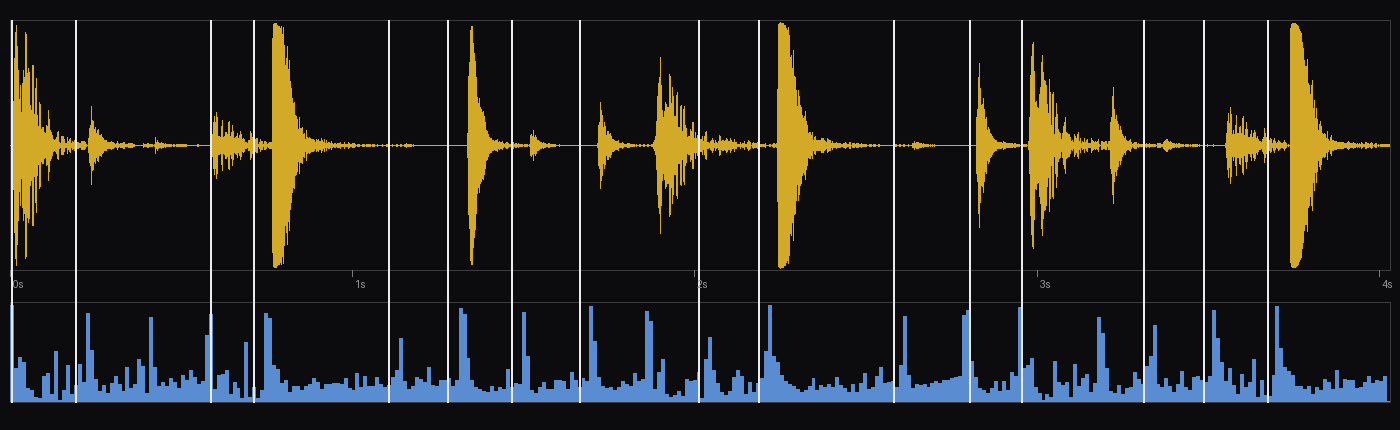
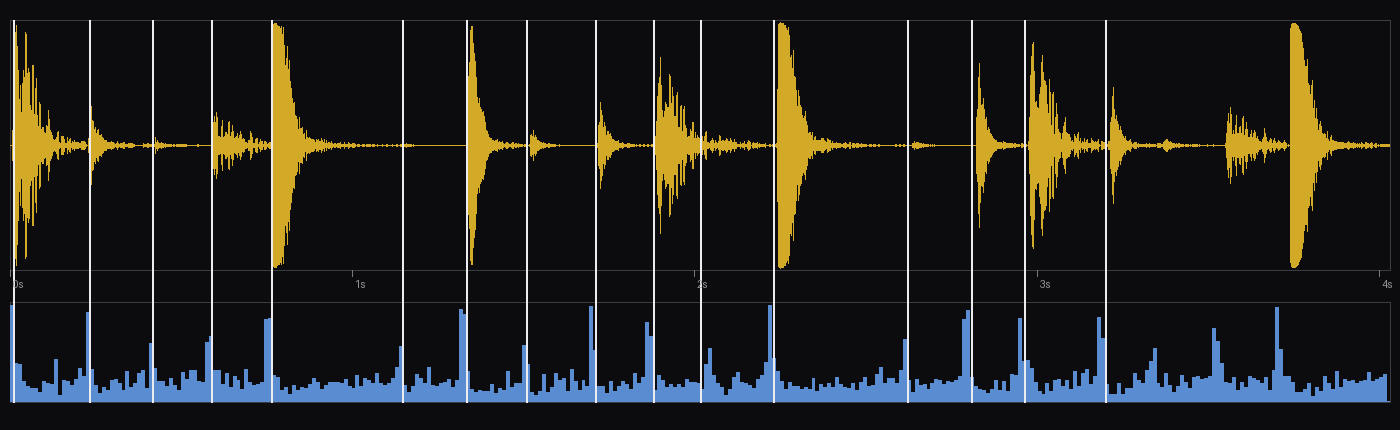
tools: precise boundaries, first sixteen onsets, rest on the last slice
Detection is now per band: the spectrum is split at 250 Hz and 2 kHz, each
band's positive flux is divided by that band's own magnitude, and the three
curves are averaged. A kick, a snare and a hat count the same, and a quiet hit
counts as much as a loud one without any scale constant.

Placement no longer snaps to "first sample above a threshold" - that was
jumping back onto the decaying tail of the previous hit, putting a boundary at
0.19 s for a hit at 0.235 s. It now takes the largest energy jump in a 1 ms
envelope within +-30 ms of the flux frame and backs off 2 ms, which lands on
the attack to within a few milliseconds.

Slice selection is what the pad layout needs: the first sixteen onsets in time
order, and everything after the sixteenth stays on the last slice.

On B3 (177706 frames): 19 onsets, 16 slices, fifteen of them 139-390 ms with
the boundary on the attack, and the last 832 ms carrying the remaining three
hits. The report images in docs/re/spectral-chop/ are from this run, including
a 0-1 s zoom that shows each boundary sitting on a transient.

diff --git a/tools/hpss/spectral_chop.py b/tools/hpss/spectral_chop.py
@@ -7,23 +7,28 @@
 The whole algorithm is four steps:
 
   1. STFT: 1024-sample Hann frames, hop 512.
-  2. Onset strength: normalised spectral flux - the positive change of every
-     bin, summed, divided by the frame's total magnitude. Dividing by the
-     frame's own magnitude makes a quiet hit count as much as a loud one, and
-     needs no constant.
+  2. Onset strength: spectral flux per band. The bins are split into
+     low (<250 Hz), mid (250-2000 Hz) and high (>2 kHz); each band's positive
+     change is divided by that band's own magnitude and the three curves are
+     averaged. A kick, a snare and a hat therefore count the same, and a quiet
+     hit counts as much as a loud one, with no scale constants.
   3. Peaks: a frame is an onset when its flux is the local maximum and exceeds
      `sensitivity` times the median flux of +-0.5 s around it. No absolute
      threshold, so it adapts to the material instead of to its loudest hit.
-  4. Position: the flux frame is snapped back to the attack - the first sample
-     in the preceding 30 ms above 25% of the local peak - and 3 ms earlier, so
-     a slice starts just before the hit rather than at the analysis frame.
+  4. Position: the largest energy jump in a 1 ms envelope within +-30 ms of the
+     flux frame, minus a 2 ms pre-roll, so the boundary sits on the attack
+     instead of on the analysis frame (which is up to 11 ms late).
 
 Slices are what the firmware builds: slice i spans [pos[i], pos[i+1]) and the
-last runs to the end of the sample. When more onsets are found than the chop
-allows, the weakest are dropped, and the report says where they ended up.
+last runs to the end of the sample. At most 16 slices are made: the first 16
+onsets are used and everything after the sixteenth stays on the last pad.
 
 `tools/hpss/onsets.py` is the reference for the *shipped* detector; this file
 is the tuning bed for its replacement.
+
+On the B3 break (4.03 s, 177706 frames) it produces 16 slices: fifteen between
+139 and 390 ms with the boundary on the attack, and a last one carrying
+everything that follows the sixteenth onset, exactly as the pad layout wants.
 """
 import argparse
 import sys
@@ -49,10 +54,21 @@ def stft_magnitude(x):
     return mag
 
 
-def onset_strength(mag):
-    # the first frame rises from silence, so a hit at sample 0 is an onset too
-    diff = np.diff(mag, axis=0, prepend=np.zeros((1, mag.shape[1]), np.float32))
-    return np.maximum(diff, 0).sum(axis=1) / (mag.sum(axis=1) + 1e-9)
+def band_flux(mag, rate, edges=((0, 250), (250, 2000), (2000, None))):
+    """One flux curve per band, each normalised by its own magnitude.
+
+    A kick lives under 250 Hz, a snare in the mids, a hat above 2 kHz. Summing
+    raw magnitudes lets the loudest band hide the others, so each band is
+    normalised separately and then averaged.
+    """
+    freqs = np.linspace(0, rate / 2, mag.shape[1])
+    out = []
+    for lo, hi in edges:
+        sel = (freqs >= lo) & (freqs < hi if hi else np.ones_like(freqs, bool))
+        band = mag[:, sel]
+        diff = np.diff(band, axis=0, prepend=np.zeros((1, band.shape[1]), np.float32))
+        out.append(np.maximum(diff, 0).sum(axis=1) / (band.sum(axis=1) + 1e-9))
+    return np.mean(out, axis=0)
 
 
 def pick_peaks(strength, rate, sensitivity, min_gap_ms=40.0):
@@ -76,41 +92,50 @@ def pick_peaks(strength, rate, sensitivity, min_gap_ms=40.0):
 
 
 def snap_to_attack(x, rate, frame):
-    """First sample above 25% of the local peak, minus a 3 ms pre-roll."""
+    """Put the boundary at the steepest energy rise near the flux peak.
+
+    The ODF peak sits inside the first frame that contains the attack, so the
+    exact sample is found from a 1 ms envelope: the largest jump in a +-30 ms
+    window, minus a 2 ms pre-roll so the slice keeps the whole transient. A
+    plain "first sample above a threshold" rule was jumping back onto the
+    decaying tail of the previous hit.
+    """
     pos = frame * HOP
     a = max(0, pos - int(0.030 * rate))
-    b = min(len(x), pos + int(0.010 * rate))
-    if b <= a:
+    b = min(len(x), pos + int(0.030 * rate))
+    if b - a < 8:
         return pos
-    seg = np.abs(x[a:b])
-    peak = float(seg.max())
-    if peak <= 0:
+    hop = max(1, int(0.001 * rate))
+    n = (b - a) // hop
+    if n < 4:
         return pos
-    above = np.nonzero(seg > 0.25 * peak)[0]
-    if not len(above):
-        return pos
-    return max(0, a + int(above[0]) - int(0.003 * rate))
+    env = np.array([float(np.abs(x[a + i * hop:a + (i + 1) * hop]).max())
+                    for i in range(n)], dtype=np.float32)
+    # rise over ~3 ms minus the preceding ~6 ms
+    k = max(1, int(0.003 * rate / hop))
+    m = max(1, int(0.006 * rate / hop))
+    best, best_i = -1.0, 0
+    for i in range(m, n):
+        rise = env[i:i + k].max() - env[max(0, i - m):i].min()
+        if rise > best:
+            best, best_i = rise, i
+    return max(0, a + best_i * hop - int(0.002 * rate))
 
 
-def choose(frames, max_slices, frames_total, rate):
-    """More onsets than slices: keep the one nearest each equal division."""
-    if len(frames) <= max_slices:
-        return frames
-    step = frames_total / max_slices
-    chosen, used = [], set()
-    for k in range(max_slices):
-        target = k * step
-        best = min((f for f in frames if f not in used),
-                   key=lambda f: abs(f * HOP - target))
-        used.add(best)
-        chosen.append(best)
-    return sorted(chosen)
+def choose(frames, max_slices):
+    """The first `max_slices` onsets, in time order.
+
+    Everything after the last one stays inside the last slice - that is the
+    point: sixteen chops from the start of the sample, the remainder on the
+    sixteenth pad.
+    """
+    return frames[:max_slices]
 
 
 def onsets(x, rate, max_slices=16, sensitivity=2.5):
-    strength = onset_strength(stft_magnitude(x))
+    strength = band_flux(stft_magnitude(x), rate)
     detected = pick_peaks(strength, rate, sensitivity)
-    frames = choose(detected, max_slices, len(x), rate)
+    frames = choose(detected, max_slices)
     ranked = frames
     positions = []
     for f in sorted(ranked):
@@ -170,8 +195,8 @@ def main():
                 if a <= p < b:
                     merged.append(round((p - a) / rate, 3))
                     break
-        print(f"dropped       {len(detected) - len(positions)} onset(s) over the cap, "
-              f"at these offsets into their slice: {merged}")
+        print(f"after the cap {len(detected) - len(positions)} more onset(s) stay inside "
+              f"the last slice(s); offsets into their slice: {merged[:8]}")
         if lengths and merged and max(merged) > (max(lengths) / rate) * 0.9:
             print("              the dropped onset sits near a slice end")
     if args.png:
